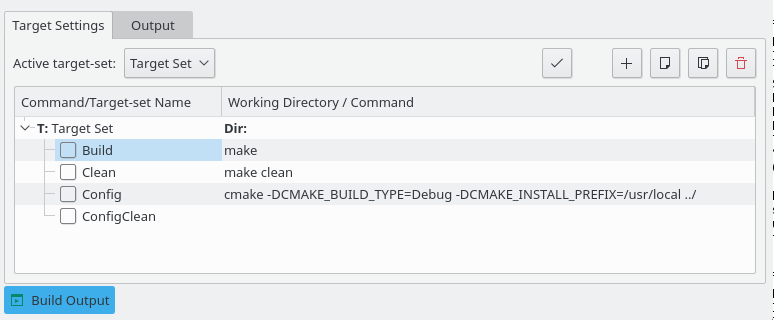
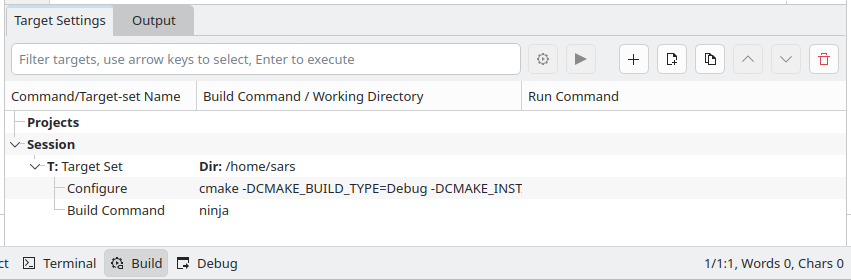
Update the build plugin documentation
Add "insert path" also to "Run Command"

BUG: 497961

diff --git a/addons/katebuild-plugin/TargetHtmlDelegate.cpp b/addons/katebuild-plugin/TargetHtmlDelegate.cpp
@@ -50,7 +50,7 @@ void TargetHtmlDelegate::paint(QPainter *painter, const QStyleOptionViewItem &op
         if (index.column() == 0) {
             str = i18nc("T as in Target set", "<B>T:</B> %1", index.data().toString().toHtmlEscaped());
         } else if (index.column() == 1) {
-            str = i18nc("D as in working Directory", "<B>Dir:</B> %1", index.data().toString().toHtmlEscaped());
+            str = i18nc("Dir as in working Directory", "<B>Dir:</B> %1", index.data().toString().toHtmlEscaped());
         }
     } else {
         str = index.data().toString().toHtmlEscaped();
@@ -102,7 +102,7 @@ QWidget *TargetHtmlDelegate::createEditor(QWidget *dparent, const QStyleOptionVi
         requester->setReplace(true);
         editor = requester;
         editor->setToolTip(i18n("Leave empty to use the directory of the current document.\nAdd search directories by adding paths separated by ';'"));
-    } else if (index.column() == 1) {
+    } else if (index.column() == 1 || index.column() == 2) {
         auto *urlEditor = new UrlInserter(parent()->property("docUrl").toUrl(), dparent);
         editor = urlEditor;
         int const rowtype = index.data(TargetModel::RowTypeRole).toInt();
@@ -132,13 +132,13 @@ void TargetHtmlDelegate::setEditorData(QWidget *editor, const QModelIndex &index
 {
     QString value = index.model()->data(index, Qt::EditRole).toString();
 
-    if (index.column() == 1) {
-        auto *ledit = static_cast<UrlInserter *>(editor);
+    if (index.column() == 1 || index.column() == 2) {
+        auto *ledit = qobject_cast<UrlInserter *>(editor);
         if (ledit) {
             ledit->lineEdit()->setText(value);
         }
     } else {
-        auto *ledit = static_cast<QLineEdit *>(editor);
+        auto *ledit = qobject_cast<QLineEdit *>(editor);
         if (ledit) {
             ledit->setText(value);
         }
@@ -148,11 +148,11 @@ void TargetHtmlDelegate::setEditorData(QWidget *editor, const QModelIndex &index
 void TargetHtmlDelegate::setModelData(QWidget *editor, QAbstractItemModel *model, const QModelIndex &index) const
 {
     QString value;
-    if (index.column() == 1) {
-        auto *ledit = static_cast<UrlInserter *>(editor);
+    if (index.column() == 1 || index.column() == 2) {
+        auto *ledit = qobject_cast<UrlInserter *>(editor);
         value = ledit->lineEdit()->text();
     } else {
-        auto *ledit = static_cast<QLineEdit *>(editor);
+        auto *ledit = qobject_cast<QLineEdit *>(editor);
         value = ledit->text();
     }
     model->setData(index, value, Qt::EditRole);

diff --git a/addons/katebuild-plugin/TargetModel.cpp b/addons/katebuild-plugin/TargetModel.cpp
@@ -631,7 +631,7 @@ QVariant TargetModel::headerData(int section, Qt::Orientation orientation, int r
         return i18n("Command/Target-set Name");
     }
     if (section == 1) {
-        return i18n("Working Directory / Command");
+        return i18n("Build Command / Working Directory");
     }
     if (section == 2) {
         return i18n("Run Command");

diff --git a/addons/katebuild-plugin/UrlInserter.h b/addons/katebuild-plugin/UrlInserter.h
@@ -14,6 +14,7 @@
 
 class UrlInserter : public QWidget
 {
+    Q_OBJECT
 public:
     UrlInserter(const QUrl &startUrl, QWidget *parent);
     QLineEdit *lineEdit()
